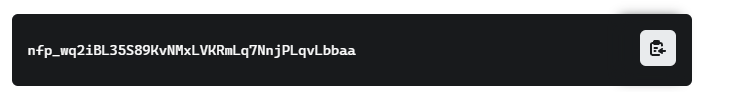
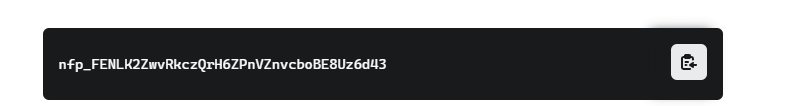
subm

Changed region(s): [[0.0, 0.1087, 0.9644, 0.9565]]

diff --git a/netlify/functions/get-submissions.js b/netlify/functions/get-submissions.js
@@ -1,13 +1,24 @@
 exports.handler = async function () {
+
   try {
+
     const token = process.env.NETLIFY_API_TOKEN;
     const siteId = process.env.NETLIFY_SITE_ID;
 
-    if (!token || !siteId) {
+    if (!token) {
       return {
         statusCode: 500,
         body: JSON.stringify({
-          error: "Missing NETLIFY_API_TOKEN or NETLIFY_SITE_ID."
+          error: "NETLIFY_API_TOKEN missing"
+        })
+      };
+    }
+
+    if (!siteId) {
+      return {
+        statusCode: 500,
+        body: JSON.stringify({
+          error: "NETLIFY_SITE_ID missing"
         })
       };
     }
@@ -21,10 +32,6 @@ exports.handler = async function () {
       }
     );
 
-    if (!formsResponse.ok) {
-      throw new Error("Could not load Netlify forms.");
-    }
-
     const forms = await formsResponse.json();
 
     const targetForm = forms.find(
@@ -35,7 +42,7 @@ exports.handler = async function () {
       return {
         statusCode: 404,
         body: JSON.stringify({
-          error: "county-compass-submission form not found."
+          error: "Form not found"
         })
       };
     }
@@ -49,10 +56,6 @@ exports.handler = async function () {
       }
     );
 
-    if (!submissionsResponse.ok) {
-      throw new Error("Could not load form submissions.");
-    }
-
     const submissions = await submissionsResponse.json();
 
     return {
@@ -64,12 +67,14 @@ exports.handler = async function () {
     };
 
   } catch (error) {
+
     return {
       statusCode: 500,
       body: JSON.stringify({
-        error: "Failed to load submissions.",
-        details: error.message
+        error: error.message
       })
     };
+
   }
+
 };
